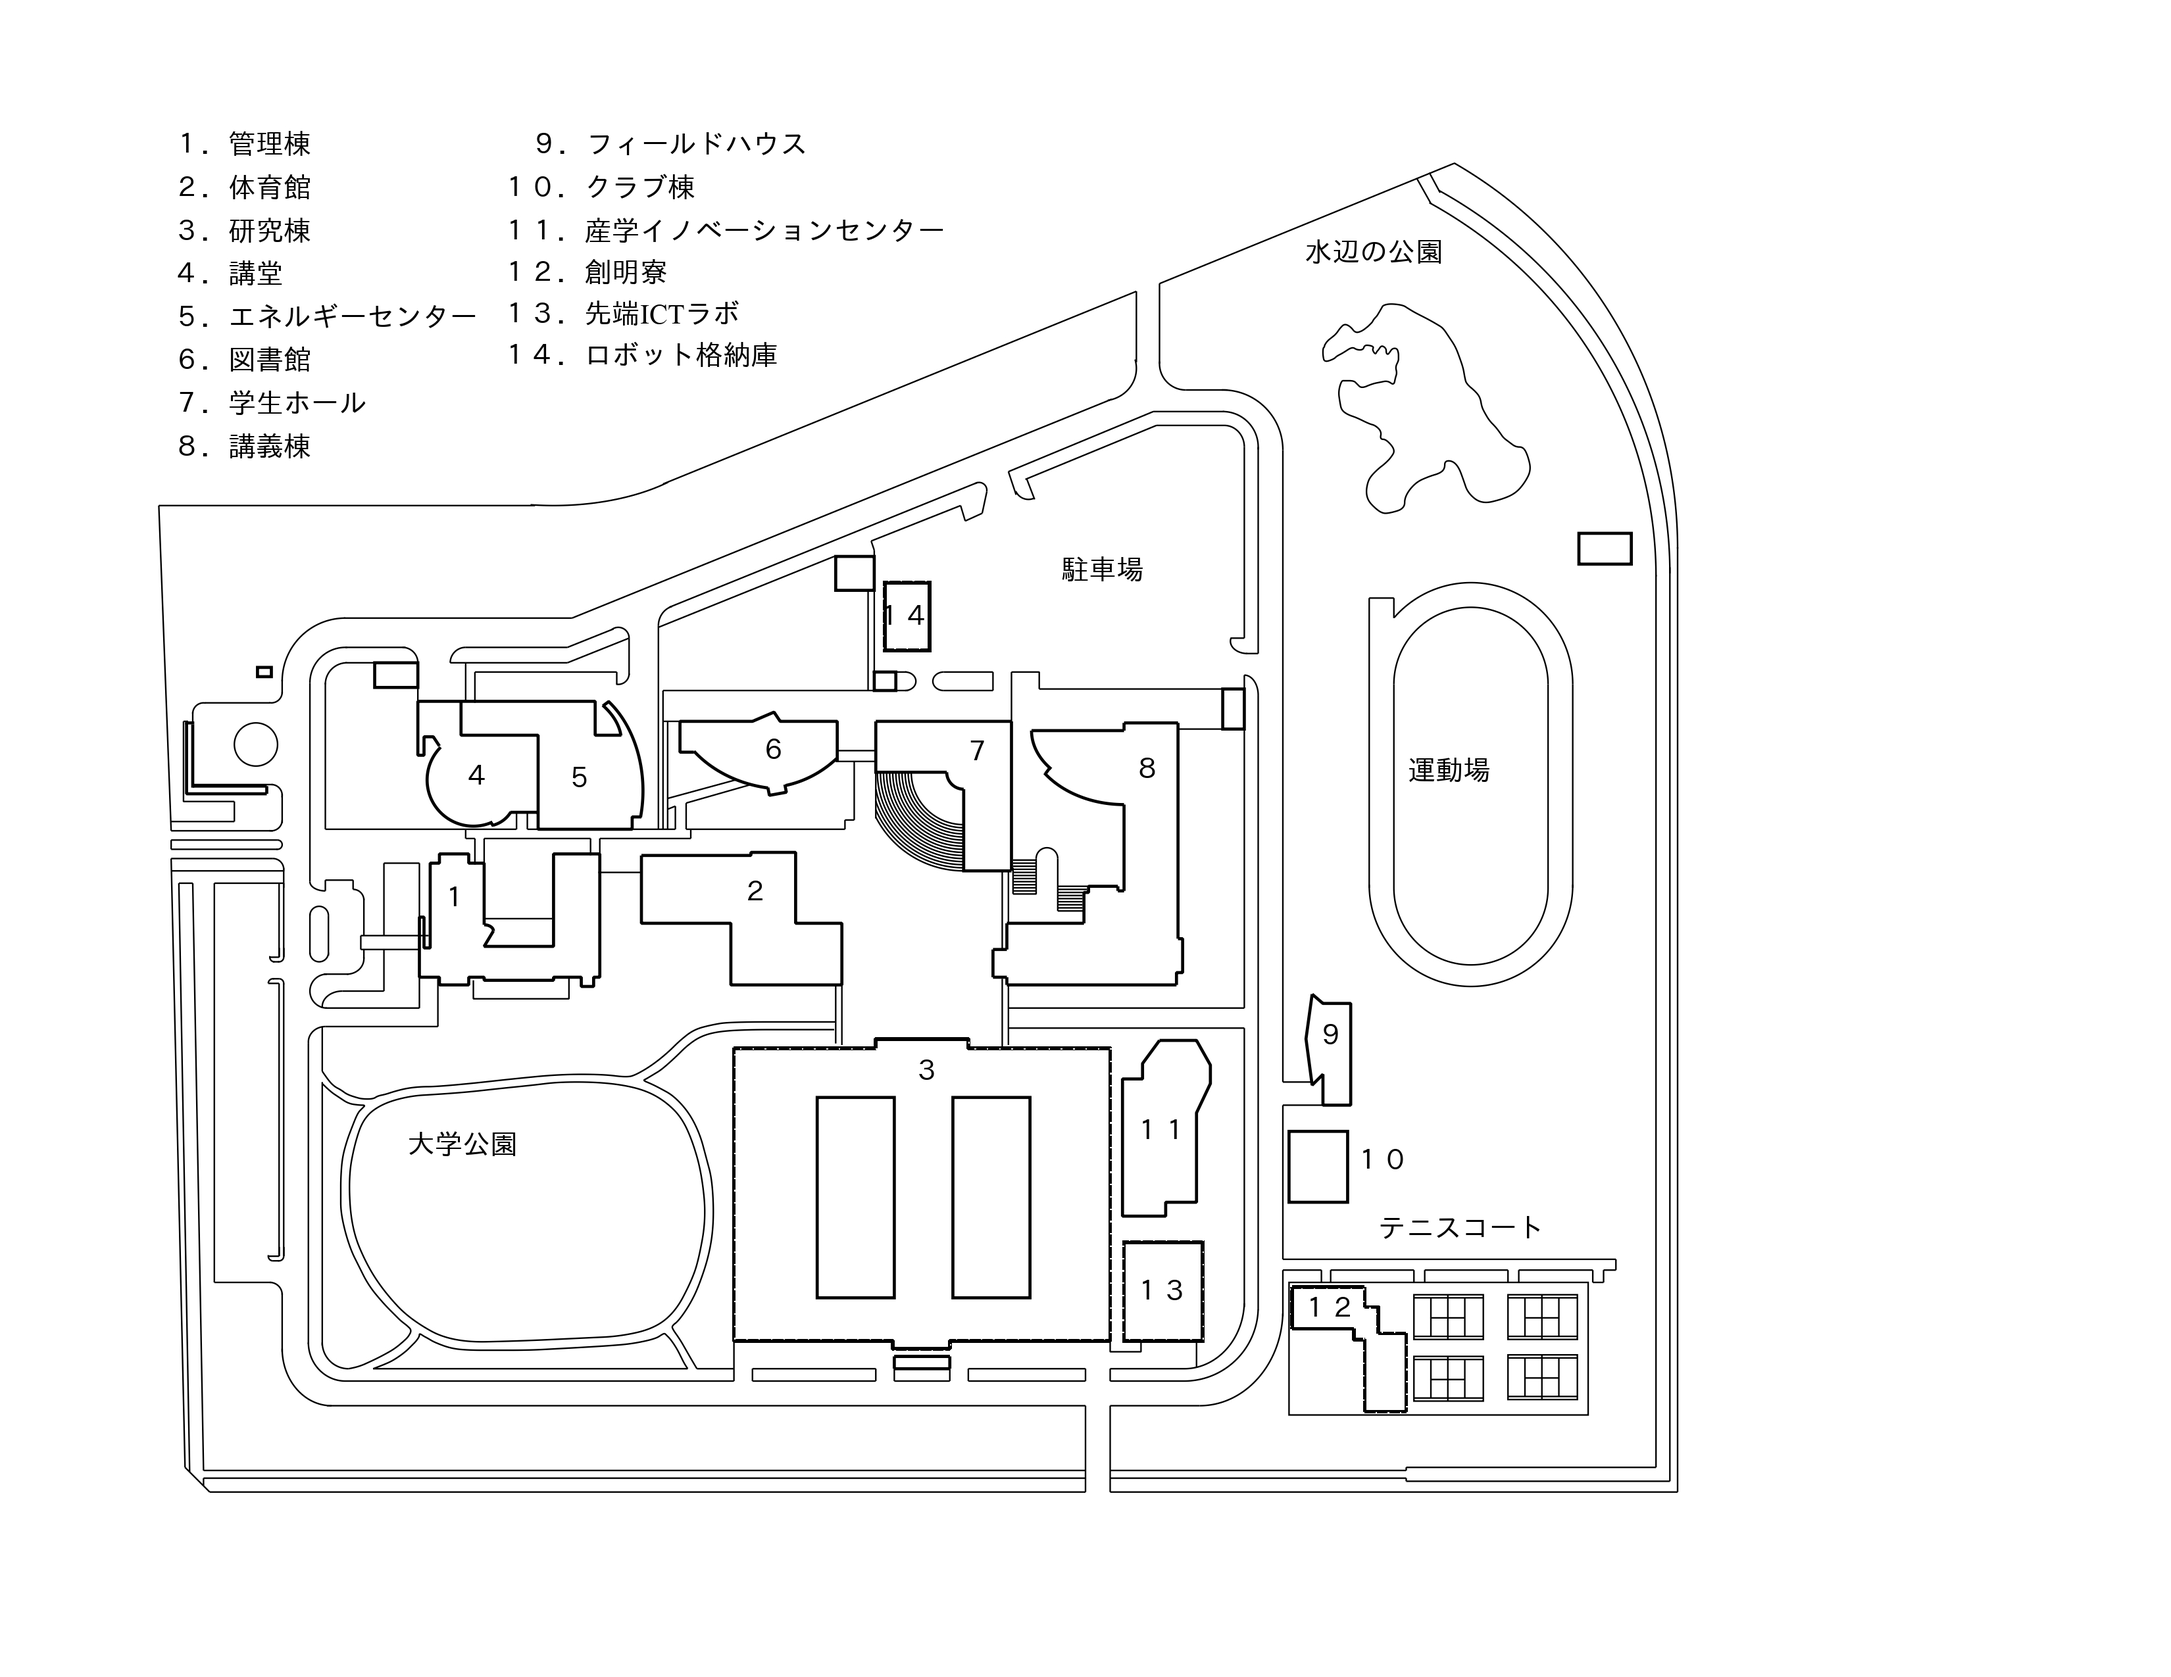
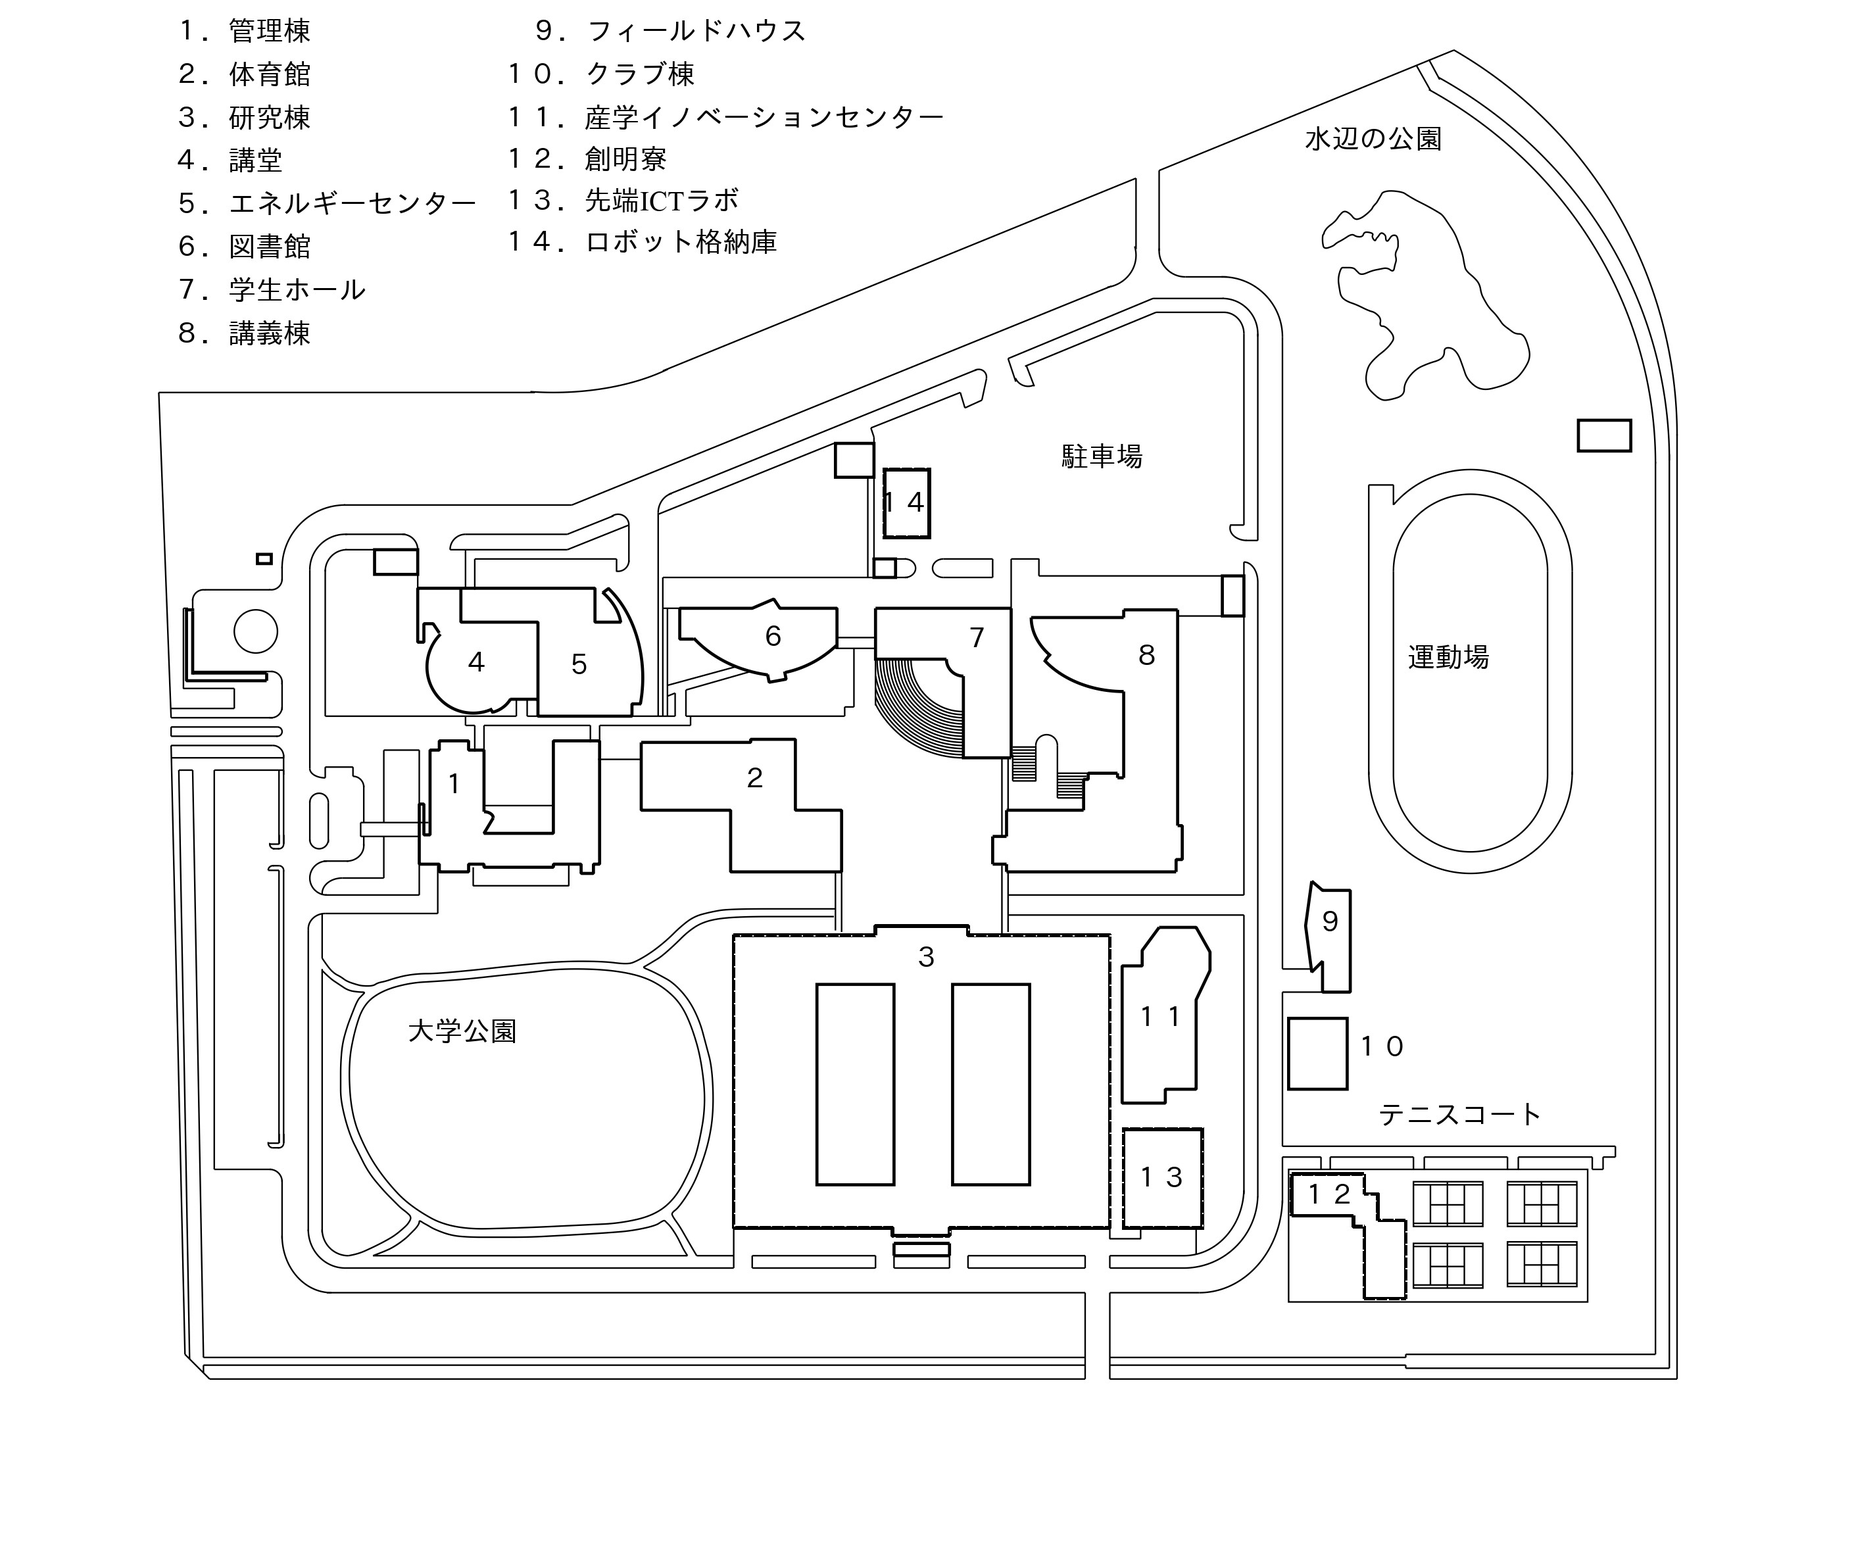
map kairyo

diff --git a/src/components/Map.vue b/src/components/Map.vue
@@ -1,23 +1,51 @@
 <template>
-  <div class="q-pa-md q-gutter-sm">
-
-    <q-img src="../assets/image/zentai.jpg" spinner-color="white" style="height: 100%; max-width: 100%" />
+  <div>
+    <div id="map" @click="addPin($event)" style = "margin : 0 auto">
+      <div v-for="(pin, index) in pins" :key="index" 
+           class="pin" :style="{ left: pin.x + 'px', top: pin.y + 'px' }">
+      </div>
+    </div>
   </div>
 </template>
 
-<script >
-import { ref } from 'vue'
-
+<script>
 export default {
-  setup() {
-    const url = ref('../assets/map/zentai.jpg')
-
+  data() {
     return {
-      url,
-      refresh() {
-        url.value = 'https://picsum.photos/500/300?t=' + Math.random()
-      }
-    }
-  }
-}
+      pins: [],  
+    };
+  },
+  methods: {
+    addPin(event) {
+
+      const mapElement = document.getElementById('map');
+      const rect = mapElement.getBoundingClientRect();
+      const x = event.clientX - rect.left;
+      const y = event.clientY - rect.top;
+
+      this.pins = [{ x, y }];
+    },
+  },
+};
 </script>
+
+<style>
+#map {
+  position: relative;
+  width: 1100px;  
+  height: 1000px;  
+  background-image: url("../assets/image/zentai.jpg");  
+  background-repeat: no-repeat;
+  background-size: cover;
+  cursor: crosshair;
+}
+
+.pin {
+  width: 30px;  
+  height: 30px;  
+  background-image: url("../assets/image/pin.png");  
+  background-size: cover;
+  position: absolute; 
+  transform: translate(-50%, -50%); 
+}
+</style>

diff --git a/src/App.vue b/src/App.vue
@@ -50,14 +50,14 @@
         </div>
       </q-tabs>
     </q-header>
-
-    <q-page-container>
-      <router-view />
+      
+    <q-page-container >
       <SearchResult />
       <Mapping />
     </q-page-container>
 
   </q-layout>
+  
 </template>
 
 <script>
@@ -83,6 +83,7 @@ export default {
   },
   components: { SearchResult, Mapping }
 }
+
 </script>
 
 <style>
